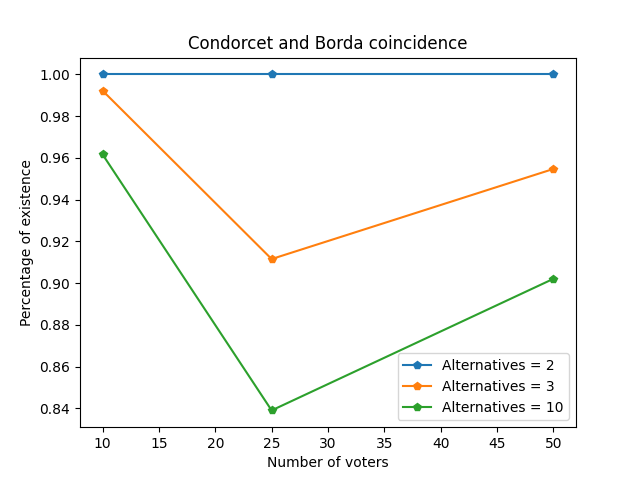
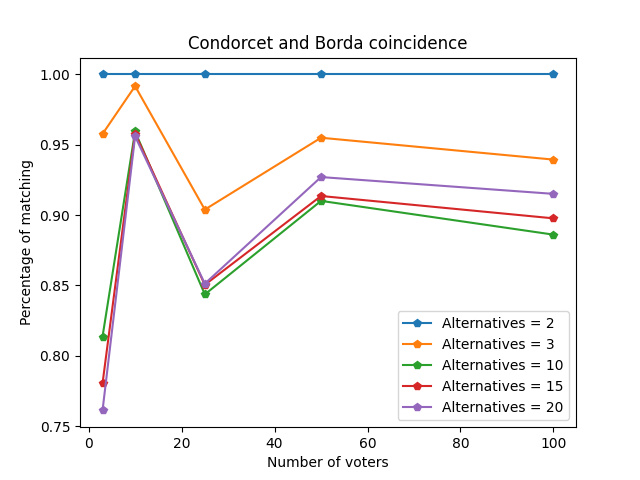
Final project

diff --git a/simulations.py b/simulations.py
@@ -151,16 +151,34 @@ def borda(profile):
 
     
 def main():
-    option_for_num_of_voters = [10, 25, 50]
-    option_for_num_of_alternatives = [2,3,10]
+    option_for_num_of_voters = [3, 10, 25, 50, 100]
+    option_for_num_of_alternatives = [2, 3, 10, 15, 20]
     x_lists = option_for_num_of_voters
+    #Firt question
     y_lists_condorcet_existence = []
+    #Second question
     y_lists_condorcet_borda = []
+    #Thir question
     y_lists_condorcet_plurality = []
+    #Fourth question
+    y_lists_no_condorcet_co_plu = []
+    y_lists_no_condorcet_co_bor = []
+    y_lists_no_condorcet_bor_plu = []
+    y_lists_no_condorcet_co_plu_bor = []
+
+
     for z in range(len(option_for_num_of_voters)):
+        #First question
         results_for_z_voters = []
+        #Second question
         results_for_z_voters_borda = []
+        #Third Question
         results_for_z_voters_plurality = []
+        #Fourth question
+        results_for_z_voters_no_condorcet_co_plu = []
+        results_for_z_voters_no_condorcet_co_bor = []
+        results_for_z_voters_no_condorcet_bor_plu = []
+        results_for_z_voters_no_condorcet_co_plu_bor = []
         for j in range(len(option_for_num_of_alternatives)):
             #Settings
             num_voters = option_for_num_of_voters[z]
@@ -170,6 +188,9 @@ def main():
             condorcet_plurality = 0
             condorcet_borda = 0
             co_plu_bor_winner = 0
+            co_plu_winner = 0
+            co_bor_winner = 0
+            bor_plu_winner = 0
             #Creating profile
             for i in range(num_simulations):
                 profile = make_IC_profile(num_voters, num_alternatives)
@@ -185,49 +206,124 @@ def main():
                     copeland_winner = copeland(matrix_profile)
                     plurality_winner = plurality(profile)
                     borda_winner = borda(profile)
-                    if copeland_winner == plurality_winner == borda_winner:
+                    if copeland_winner == plurality_winner:
+                        co_plu_winner += 1
+                    if copeland_winner == borda_winner:
+                        co_bor_winner += 1
+                    if borda_winner == plurality_winner:
+                        bor_plu_winner += 1
+                    if (copeland_winner == plurality_winner) and (plurality_winner == borda_winner) and (borda_winner == copeland_winner):
                         co_plu_bor_winner += 1
-            
-            results_for_z_voters.append(condorcet_winner_count/num_simulations)
-            results_for_z_voters_borda.append(condorcet_borda/condorcet_winner_count)
-            results_for_z_voters_plurality.append(condorcet_plurality/condorcet_winner_count)
 
+            #First question
+            results_for_z_voters.append(condorcet_winner_count/num_simulations)
+            #Second Question
+            results_for_z_voters_borda.append(condorcet_borda/condorcet_winner_count)
+            #Third Question
+            results_for_z_voters_plurality.append(condorcet_plurality/condorcet_winner_count)
+            #Fourth question
+            if (num_simulations - condorcet_winner_count) != 0:
+                results_for_z_voters_no_condorcet_co_plu.append(co_plu_winner/(num_simulations - condorcet_winner_count))
+                results_for_z_voters_no_condorcet_co_bor.append(co_bor_winner/(num_simulations - condorcet_winner_count))
+                results_for_z_voters_no_condorcet_bor_plu.append(bor_plu_winner/(num_simulations - condorcet_winner_count))
+                results_for_z_voters_no_condorcet_co_plu_bor.append(co_plu_bor_winner/(num_simulations - condorcet_winner_count))
+            else:
+                results_for_z_voters_no_condorcet_co_plu.append(0)
+                results_for_z_voters_no_condorcet_co_bor.append(0)
+                results_for_z_voters_no_condorcet_bor_plu.append(0)
+                results_for_z_voters_no_condorcet_co_plu_bor.append(0)
+
+
+        #First question
         y_lists_condorcet_existence.append(results_for_z_voters)
+        #Second question
         y_lists_condorcet_borda.append(results_for_z_voters_borda)
+        #Third question
         y_lists_condorcet_plurality.append(results_for_z_voters_plurality)
+        #Fourth question
+        y_lists_no_condorcet_co_plu.append(results_for_z_voters_no_condorcet_co_plu)
+        y_lists_no_condorcet_co_bor.append(results_for_z_voters_no_condorcet_co_bor)
+        y_lists_no_condorcet_bor_plu.append(results_for_z_voters_no_condorcet_bor_plu)
+        y_lists_no_condorcet_co_plu_bor.append(results_for_z_voters_no_condorcet_co_plu_bor)
+
 
     description = [f"Alternatives = {option}" for option in option_for_num_of_alternatives]
+    #Plotting the graph of condorcet Existence
 
-    # #Plotting the graph of condorcet Existence
-    # print(y_lists_condorcet_existence)
-    # plt.plot(x_lists, y_lists_condorcet_existence, marker='s')
-    # plt.xlabel("Number of voters")
-    # plt.ylabel("Percentage of existence")
-    # plt.title("Condorcet winner existence")
-    # plt.legend(description)
-    # fig = plt.gcf()
-    # fig.savefig("Condorcet winner existence.png")
- 
-    # #Plotting the graph of Borda matching with Condorcet
-    # print(y_lists_condorcet_borda)
-    # plt.plot(x_lists, y_lists_condorcet_borda, marker='p')
-    # plt.xlabel("Number of voters")
-    # plt.ylabel("Percentage of existence")
-    # plt.title("Condorcet and Borda coincidence")
-    # plt.legend(description)
-    # fig_2 = plt.gcf()
-    # fig_2.savefig("Condorcet and Borda coincidence.png")
-
-    #Plotting the graph of Borda matching with Condorcet
-    print(y_lists_condorcet_plurality)
-    plt.plot(x_lists, y_lists_condorcet_plurality, marker='*')
+    plt.plot(x_lists, y_lists_condorcet_existence, marker='s')
     plt.xlabel("Number of voters")
     plt.ylabel("Percentage of existence")
+    plt.title("Condorcet winner existence")
+    plt.legend(description)
+    fig = plt.gcf()
+    fig.savefig("Condorcet winner existence.png")
+    plt.show()
+ 
+    #Plotting the graph of Borda matching with Condorcet
+
+    plt.plot(x_lists, y_lists_condorcet_borda, marker='p')
+    plt.xlabel("Number of voters")
+    plt.ylabel("Percentage of matching")
+    plt.title("Condorcet and Borda coincidence")
+    plt.legend(description)
+    fig_2 = plt.gcf()
+    fig_2.savefig("Condorcet and Borda coincidence.png")
+    plt.show()
+
+    #Plotting the graph of Borda matching with Condorcet
+    plt.plot(x_lists, y_lists_condorcet_plurality, marker='*')
+    plt.xlabel("Number of voters")
+    plt.ylabel("Percentage of matching")
     plt.title("Condorcet and Plurality coincidence")
     plt.legend(description)
     fig_3 = plt.gcf()
     fig_3.savefig("Condorcet and plurality coincidence.png")
+    plt.show()
+    
 
+    ################################################################
+    ################################################################
+    ################################################################
+
+    #Plotting the graph of Borda matching with Copeland
+    plt.plot(x_lists, y_lists_no_condorcet_co_bor, marker='*')
+    plt.xlabel("Number of voters")
+    plt.ylabel("Percentage of matching")
+    plt.title("Borda matching with Copeland")
+    plt.legend(description)
+    fig_4 = plt.gcf()
+    fig_4.savefig("Borda matching with Copeland.png")
+    plt.show()
+
+    #Plotting the graph of plurality matching with Copeland
+    plt.plot(x_lists, y_lists_no_condorcet_co_plu, marker='*')
+    plt.xlabel("Number of voters")
+    plt.ylabel("Percentage of matching")
+    plt.title("Plurality matching with Copeland")
+    plt.legend(description)
+    fig_4 = plt.gcf()
+    fig_4.savefig("Plurality matching with Copeland.png")
+    plt.show()
+    
+    #Plotting the graph of Borda matching with plurality
+    plt.plot(x_lists, y_lists_no_condorcet_bor_plu, marker='*')
+    plt.xlabel("Number of voters")
+    plt.ylabel("Percentage of matching")
+    plt.title("Borda matching with plurality")
+    plt.legend(description)
+    fig_4 = plt.gcf()
+    fig_4.savefig("Borda matching with plurality.png")
+    plt.show()
+
+    #Plotting the graph of Borda matching with plurality
+    plt.plot(x_lists, y_lists_no_condorcet_co_plu_bor, marker='*')
+    plt.xlabel("Number of voters")
+    plt.ylabel("Percentage of matching")
+    plt.title("Copeland, plurality, and Borda Matching")
+    plt.legend(description)
+    fig_4 = plt.gcf()
+    fig_4.savefig("Copeland, plurality, and Borda Matching.png")
+    plt.show()
 
 
 if __name__ == "__main__":
